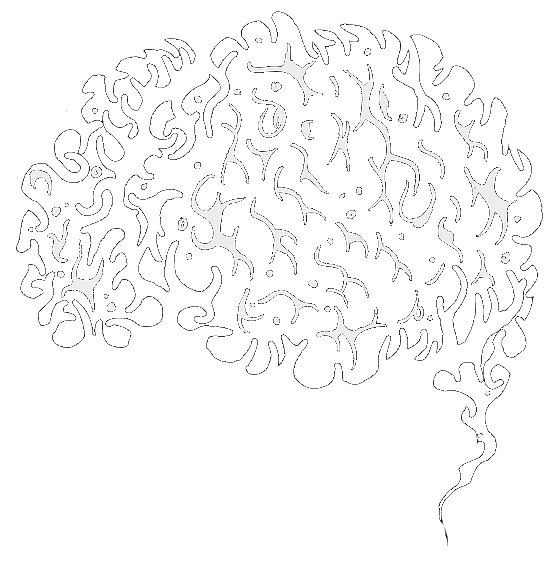
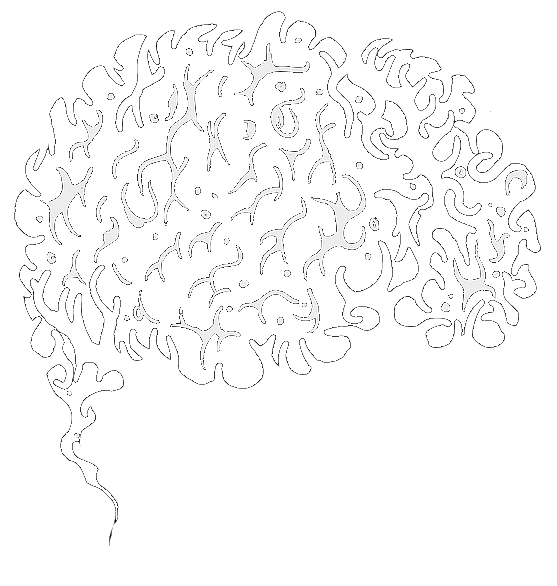
d

diff --git a/styles.css b/styles.css
@@ -298,7 +298,7 @@ div {
     font-size: 50px;
     justify-content: center;
     color: rgb(0, 0, 0);
-    margin-top: 10px;
+    margin-top: 20px;
 }
 
 #titulo-skills, #titulo-skills2{
@@ -321,12 +321,12 @@ div {
 }
 
 #top-brain {
-    margin-top: 50px;
+    
     
 }
 
 #bottom-brain {
-    margin-top: -80px
+    
     
     
 }
